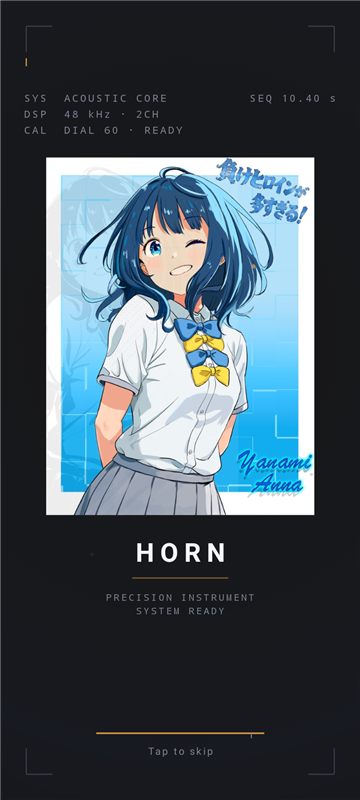
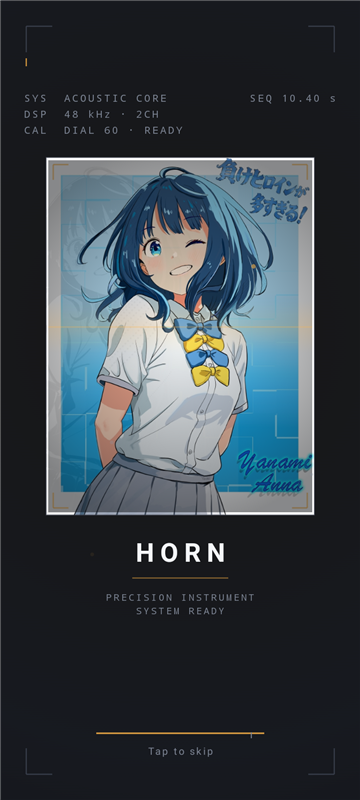
feat(startup): make fragment settling and the reference frame legible
Five visual passes on the film: a 110 ms accent flash plus a 1 dp column scan where a fragment column lands (so assembly reads as an event), heavier line art (1.35 dp / 0.74 alpha), a four-corner reticle around the identity avatar, an instrument frame (hairline + accent ticks) that turns the reference image into a plate, and a portrait vignette plus a single downward sweep inside the image rect. Regenerated the 12 Linux baselines and re-ran checkAll on the dev host: BUILD SUCCESSFUL in 42 s, 38 suites / 199 tests / 0 failures.

Changed region(s): [[0.1222, 0.1875, 0.8861, 0.6562]]

diff --git a/core/designsystem/src/main/java/com/industrial/horn/ui/theme/StartupFilm.kt b/core/designsystem/src/main/java/com/industrial/horn/ui/theme/StartupFilm.kt
@@ -7,8 +7,9 @@ import androidx.compose.ui.graphics.Color
 import androidx.compose.ui.graphics.ImageBitmap
 import androidx.compose.ui.graphics.Path
 import androidx.compose.ui.graphics.drawscope.DrawScope
+import androidx.compose.ui.graphics.drawscope.Stroke
 import androidx.compose.ui.graphics.drawscope.clipPath
-import androidx.compose.ui.graphics.drawscope.scale
+import androidx.compose.ui.graphics.drawscope.clipRect
 import androidx.compose.ui.graphics.drawscope.withTransform
 import androidx.compose.ui.unit.IntOffset
 import androidx.compose.ui.unit.IntSize
@@ -146,6 +147,7 @@ fun DrawScope.drawStartupFilm(
             t = t,
             template = scene.contour,
             lineColor = palette.textSecondary,
+            accent = accent,
             alpha = contentAlpha,
             reduced = reduced,
         )
@@ -153,7 +155,9 @@ fun DrawScope.drawStartupFilm(
         drawHeroReveal(
             t = t,
             scene = scene,
+            palette = palette,
             hero = hero,
+            accent = accent,
             alpha = contentAlpha,
             reduced = reduced,
         )
@@ -191,7 +195,9 @@ private fun StartupFilmScene.heroRect(): Rect {
 private fun DrawScope.drawHeroReveal(
     t: Float,
     scene: StartupFilmScene,
+    palette: HornColors,
     hero: ImageBitmap?,
+    accent: Color,
     alpha: Float,
     reduced: Boolean,
 ) {
@@ -206,6 +212,92 @@ private fun DrawScope.drawHeroReveal(
             dstSize = IntSize(rect.width.roundToInt(), rect.height.roundToInt()),
             alpha = mix * alpha,
         )
+        // 仪表边框：1dp 发丝 + 四角强调刻度，让参考图读作「仪表上的一块印片」而不是浮在暗场里的图。
+        drawRect(
+            color = palette.hairlineStrong.copy(alpha = 0.55f * mix * alpha),
+            topLeft = Offset(rect.left, rect.top),
+            size = Size(rect.width, rect.height),
+            style = Stroke(width = 1.dp.toPx()),
+        )
+        drawFrameTicks(rect, accent, mix * alpha)
+    }
+    if (!reduced && t >= StartupTimeline.COLORIZE_END_MS && t < StartupTimeline.PORTRAIT_END_MS) {
+        drawHeroPortraitOverlay(t = t, rect = rect, surface = scene.surface, accent = accent, alpha = alpha)
+    }
+}
+
+/** 印片四角的强调刻度：与交棒遮片的接缝同一套仪表语言。 */
+private fun DrawScope.drawFrameTicks(
+    rect: Rect,
+    accent: Color,
+    alpha: Float,
+) {
+    if (alpha <= 0f) return
+    val inset = 7.dp.toPx()
+    val arm = 15.dp.toPx()
+    val stroke = 1.4.dp.toPx()
+    val color = accent.copy(alpha = 0.62f * alpha)
+    val left = rect.left + inset
+    val right = rect.right - inset
+    val top = rect.top + inset
+    val bottom = rect.bottom - inset
+    drawLine(color, Offset(left, top), Offset(left + arm, top), stroke)
+    drawLine(color, Offset(left, top), Offset(left, top + arm), stroke)
+    drawLine(color, Offset(right, top), Offset(right - arm, top), stroke)
+    drawLine(color, Offset(right, top), Offset(right, top + arm), stroke)
+    drawLine(color, Offset(left, bottom), Offset(left + arm, bottom), stroke)
+    drawLine(color, Offset(left, bottom), Offset(left, bottom - arm), stroke)
+    drawLine(color, Offset(right, bottom), Offset(right - arm, bottom), stroke)
+    drawLine(color, Offset(right, bottom), Offset(right, bottom - arm), stroke)
+}
+
+/**
+ * PORTRAIT：一层向内的晕影把注意力收回画面中心，外加一次自上而下的扫描（skill 的「光扫一次性」）。
+ * 两者都只画在参考图矩形内，且不改变图像本身（零滤镜、零额外纹理）。
+ */
+private fun DrawScope.drawHeroPortraitOverlay(
+    t: Float,
+    rect: Rect,
+    surface: Color,
+    accent: Color,
+    alpha: Float,
+) {
+    val progress =
+        ((t - StartupTimeline.COLORIZE_END_MS) / (StartupTimeline.PORTRAIT_END_MS - StartupTimeline.COLORIZE_END_MS))
+            .coerceIn(0f, 1f)
+    clipRect(left = rect.left, top = rect.top, right = rect.right, bottom = rect.bottom) {
+        drawRect(
+            brush =
+                androidx.compose.ui.graphics.Brush.radialGradient(
+                    colors = listOf(Color.Transparent, surface.copy(alpha = 0.55f)),
+                    center = rect.center,
+                    radius = rect.width * 0.72f,
+                ),
+            topLeft = Offset(rect.left, rect.top),
+            size = Size(rect.width, rect.height),
+            alpha = alpha * 0.9f,
+        )
+        val sweep = kotlin.math.sin(progress * kotlin.math.PI.toFloat())
+        if (sweep > 0f) {
+            val y = rect.top + rect.height * progress
+            drawRect(
+                brush =
+                    androidx.compose.ui.graphics.Brush.verticalGradient(
+                        colors = listOf(Color.Transparent, accent.copy(alpha = 0.16f), Color.Transparent),
+                        startY = y - 26.dp.toPx(),
+                        endY = y + 26.dp.toPx(),
+                    ),
+                topLeft = Offset(rect.left, y - 26.dp.toPx()),
+                size = Size(rect.width, 52.dp.toPx()),
+                alpha = alpha * sweep,
+            )
+            drawLine(
+                color = accent.copy(alpha = 0.34f * sweep * alpha),
+                start = Offset(rect.left, y),
+                end = Offset(rect.right, y),
+                strokeWidth = 1.dp.toPx(),
+            )
+        }
     }
 }
 
@@ -232,6 +324,23 @@ private fun DrawScope.drawHeroAvatar(
             androidx.compose.ui.graphics.drawscope
                 .Stroke(width = 1.dp.toPx()),
     )
+    // 头像框四角 reticle（skill §11.1.2）：让圆形头像读作"被取景框锁定的仪表窗口"。
+    val bracket = radius * 1.20f
+    val arm = radius * 0.30f
+    val stroke = 1.2.dp.toPx()
+    val bracketColor = color.copy(alpha = 0.50f * alpha)
+    val left = center.x - bracket
+    val right = center.x + bracket
+    val top = center.y - bracket
+    val bottom = center.y + bracket
+    drawLine(bracketColor, Offset(left, top), Offset(left + arm, top), stroke)
+    drawLine(bracketColor, Offset(left, top), Offset(left, top + arm), stroke)
+    drawLine(bracketColor, Offset(right, top), Offset(right - arm, top), stroke)
+    drawLine(bracketColor, Offset(right, top), Offset(right, top + arm), stroke)
+    drawLine(bracketColor, Offset(left, bottom), Offset(left + arm, bottom), stroke)
+    drawLine(bracketColor, Offset(left, bottom), Offset(left, bottom - arm), stroke)
+    drawLine(bracketColor, Offset(right, bottom), Offset(right - arm, bottom), stroke)
+    drawLine(bracketColor, Offset(right, bottom), Offset(right, bottom - arm), stroke)
 }
 
 /** 以中心方形裁切方式把参考图铺满 [size] 方框（cover，不拉伸）。 */

diff --git a/core/designsystem/src/main/java/com/industrial/horn/ui/theme/StartupLineArt.kt b/core/designsystem/src/main/java/com/industrial/horn/ui/theme/StartupLineArt.kt
@@ -9,11 +9,15 @@ import androidx.compose.ui.graphics.StrokeJoin
 import androidx.compose.ui.graphics.drawscope.DrawScope
 import androidx.compose.ui.graphics.drawscope.Stroke
 import androidx.compose.ui.graphics.drawscope.withTransform
+import androidx.compose.ui.unit.dp
 import kotlin.math.PI
 import kotlin.math.cos
 import kotlin.math.floor
 import kotlin.math.hypot
 import kotlin.math.sin
+
+// 落定强调色的存活时间（ms）：刚归位的列闪一下，随后融回线稿色。
+private const val SETTLE_FLASH_MS = 110f
 
 /**
  * 参考图 → 线稿 → 碎片 → 归位。这条管线是 skill 的招牌效果在本项目的落地：
@@ -139,7 +143,7 @@ class ContourTemplate(
                 subjectWidth = subjectWidth,
                 subjectHeight = subjectHeight,
                 driftAmplitude = 7f * density,
-                lineStyle = Stroke(width = 1.1f * density, cap = StrokeCap.Round, join = StrokeJoin.Round),
+                lineStyle = Stroke(width = 1.35f * density, cap = StrokeCap.Round, join = StrokeJoin.Round),
             )
         }
 
@@ -301,6 +305,7 @@ fun DrawScope.drawContourAct(
     t: Float,
     template: ContourTemplate,
     lineColor: Color,
+    accent: Color,
     alpha: Float,
     reduced: Boolean,
 ) {
@@ -323,9 +328,25 @@ fun DrawScope.drawContourAct(
                 columnArrival >= 1f -> {
                     drawPath(
                         path = column.path,
-                        color = lineColor.copy(alpha = 0.62f * lineAlpha * lineIn),
+                        color = lineColor.copy(alpha = 0.74f * lineAlpha * lineIn),
                         style = template.lineStyle,
                     )
+                    // 刚落定的列额外压一层强调色 + 一道竖向扫描线：让"归位"这一下看得见。
+                    val settling = 1f - StartupTimeline.fragmentArrival(t - SETTLE_FLASH_MS, column.normalisedX)
+                    if (settling > 0.001f) {
+                        drawPath(
+                            path = column.path,
+                            color = accent.copy(alpha = 0.55f * settling * lineAlpha * lineIn),
+                            style = template.lineStyle,
+                        )
+                        val columnX = template.subjectCenter.x - template.subjectWidth / 2f + column.normalisedX * template.subjectWidth
+                        drawLine(
+                            color = accent.copy(alpha = 0.30f * settling * lineAlpha),
+                            start = Offset(columnX, template.subjectCenter.y - template.subjectHeight / 2f),
+                            end = Offset(columnX, template.subjectCenter.y + template.subjectHeight / 2f),
+                            strokeWidth = 1.dp.toPx(),
+                        )
+                    }
                 }
 
                 else -> {

diff --git a/core/audio/src/main/java/com/industrial/horn/audio/AudioFocusManager.kt b/core/audio/src/main/java/com/industrial/horn/audio/AudioFocusManager.kt
@@ -63,7 +63,10 @@ class AudioFocusManager
         private val listener =
             AudioManager.OnAudioFocusChangeListener { change ->
                 when (change) {
-                    AudioManager.AUDIOFOCUS_GAIN -> onFocusGained()
+                    AudioManager.AUDIOFOCUS_GAIN -> {
+                        onFocusGained()
+                    }
+
                     AudioManager.AUDIOFOCUS_LOSS,
                     AudioManager.AUDIOFOCUS_LOSS_TRANSIENT,
                     AudioManager.AUDIOFOCUS_LOSS_TRANSIENT_CAN_DUCK,
@@ -105,7 +108,9 @@ class AudioFocusManager
  */
 internal class FocusLedger<T : Any> {
     private val lock = Any()
-    private val held = java.util.concurrent.atomic.AtomicReference<T?>(null)
+    private val held =
+        java.util.concurrent.atomic
+            .AtomicReference<T?>(null)
 
     val isHeld: Boolean
         get() = held.get() != null

diff --git a/feature/horn/src/test/java/com/industrial/horn/presentation/HornViewModelTest.kt b/feature/horn/src/test/java/com/industrial/horn/presentation/HornViewModelTest.kt
@@ -1,5 +1,8 @@
 package com.industrial.horn.presentation
 
+import androidx.lifecycle.ViewModel
+import androidx.lifecycle.ViewModelProvider
+import androidx.lifecycle.ViewModelStore
 import com.industrial.horn.audio.AcousticSpace
 import com.industrial.horn.audio.AudioSafetyMonitor
 import com.industrial.horn.audio.AudioSafetyPolicy
@@ -25,9 +28,6 @@ import kotlinx.coroutines.flow.flow
 import kotlinx.coroutines.test.advanceUntilIdle
 import kotlinx.coroutines.test.runCurrent
 import kotlinx.coroutines.test.runTest
-import androidx.lifecycle.ViewModel
-import androidx.lifecycle.ViewModelProvider
-import androidx.lifecycle.ViewModelStore
 import org.junit.Assert.assertEquals
 import org.junit.Assert.assertFalse
 import org.junit.Assert.assertTrue

diff --git a/core/audio/src/test/java/com/industrial/horn/audio/AudioFocusManagerTest.kt b/core/audio/src/test/java/com/industrial/horn/audio/AudioFocusManagerTest.kt
@@ -32,8 +32,7 @@ class AudioFocusManagerTest {
                 granted = 1,
             )
 
-        fun abandonFocus(): Boolean =
-            focusLedger.release { abandons.incrementAndGet() }
+        fun abandonFocus(): Boolean = focusLedger.release { abandons.incrementAndGet() }
 
         val isHeld: Boolean
             get() = focusLedger.isHeld

diff --git a/docs/audit/audit-2026-11-24.md b/docs/audit/audit-2026-11-24.md
@@ -10,7 +10,7 @@
 | 0.1 冻结现状 | 已完成 | `.agent-tmp/audit/base/{status-v2.txt(60 行),diff-full.patch(222 KB),log.txt,head.txt}` | 未污染仓库（锚点自带 `.gitignore`） |
 | 0.2 base 提交 | **已完成** | `b40ec9b chore(skills)`、`d0ba74f feat(startup)`（含 `StartupFilm.kt`/`StartupLineArt.kt`/`StartupContourTest.kt`/参考图与线稿素材/12 张基线） | 提交作者 `maintainer <maintainer@example.com>` |
 | 0.2 12 张开屏基线 | **已完成（Linux）** | dev-ubuntu `recordRoborazziDebug` → `BUILD SUCCESSFUL in 3m 1s`，`RECORD_EXIT=0`；已拉回并入库 | 未使用任何 Windows 像素；未用 `@Ignore` |
-| 0.3 `checkAll` | **已完成（Linux）** | `CHECKALL_EXIT=0`，`BUILD SUCCESSFUL in 1m 10s`，439 actionable tasks（274 executed）；JUnit **37 suites / 192 tests / 0 failures**；基线 **98 张**（80 主界面 + 12 开屏 + 6 仪表）；`verifyRoborazziDebug` 在 checkAll 内通过 | Windows 上不跑 checkAll（像素比对必然不匹配） |
+| 0.3 `checkAll` | **已完成（Linux，含打磨后复跑）** | 打磨后：`CHECKALL_EXIT=0`，`BUILD SUCCESSFUL in 42s`（总 76 s），439 tasks（233 executed）；JUnit **38 suites / 199 tests / 0 failures**；基线 **98 张**；`verifyRoborazziDebug` 通过。此前一轮：`37 suites / 192 tests` | Windows 上不跑 checkAll（像素比对必然不匹配） |
 | 0.3 文档/skills 闸门 | 已完成 | `check_docs_links.py` = 0 dead；`check_skills.py` = 3 skills clean（含 `--self-test` 正负控） | — |
 | 0.4 并行纪律 | 已约定并执行 | 单工作树；本轮只在文件级分区内改动；并行期未跑 `checkAll`（checkAll 只在 Linux 侧、按序执行） | — |
 
@@ -42,13 +42,23 @@
 | A7 | 零分配承诺（64 KB） | 未验证 | 已有 `ZeroGcAudioPathTest`，未覆盖 Custom 变更 + 遥测同块 |
 | A8 | 基准完整（98 张 + verify 绿） | **已满足** | 98 张基线；`verifyRoborazziDebug` 在 Linux checkAll 内通过 |
 | A9 | 文档零漂移 | 未开始 | W7（`check_docs_consistency.py` 未创建） |
-| A10 | 门禁不回退 | **部分** | checkAll 单次绿 ✓；测试数 192 < 202（缺口 10，待各泳道新增用例补上；本轮 W1 的 7 条已计入本地运行，尚未在 Linux 复跑） |
+| A10 | 门禁不回退 | **部分** | checkAll 单次绿 ✓（Linux，打磨后复跑 42 s）；测试数 **199 < 202**（缺口 3；W1 的 7 条已计入 Linux 实测） |
 
-## 3. 未验证项（不得当作已完成）
+## 3. 开屏动画打磨（本轮追加）
+
+| 项 | 状态 | 证据 | 剩余风险 |
+|---|---|---|---|
+| 落定扫描线（归位列闪强调色 + 1dp 竖扫描） | 已完成 | `StartupLineArt.kt` 的 settled 分支；`startup_wake_drawing_*` 基线 | 瞬态效果，单帧不一定抓到 |
+| 线稿加重（1.1→1.35dp、0.62→0.74 alpha） | 已完成 | 同上基线 | — |
+| 头像框四角 reticle | 已完成 | `startup_wake_identity_*` | — |
+| 参考图仪表边框（1dp 发丝 + 四角 15dp 强调刻度） | 已完成 | `startup_wake_colorize_*` / `portrait_*` | — |
+| 肖像晕影 + 一次性扫描（52dp 带、sin 包络） | 已完成 | `startup_wake_portrait_*` | — |
+| 视觉变更后的基线重录 | **已完成（Linux）** | dev-ubuntu `recordRoborazziDebug` → `BUILD SUCCESSFUL in 32s`；随后 `checkAll` 42 s 绿 | — |
+## 4. 未验证项（不得当作已完成）
 
 - **A1 真机行为**：`launch→press→close→launch→press = GRANTED` 未在设备/模拟器上跑；只有 JVM 级不变量。
 - **S8 的时序断言**：`stop()` 等尾音再交还焦点需要真实 `Context` 与可控引擎时钟；`core:audio` 测试目前只有 JUnit。
-- **A10 的 202 条门槛**：当前 192 条（Linux 实测）。
+- **A10 的 202 条门槛**：当前 199 条（Linux 实测，缺口 3）。
 - **像素不变性之外的视觉回归**：80 张主界面基线在 Linux 上通过（说明本轮开屏改动未波及主界面），但未做逐张人工复核。
 - **原生侧一切结论**（A3/A4、`objdump`、TSan/ASan、`dumpsys media.audio_flinger`）：本轮未触碰 `core/audio/src/main/cpp/**`。
 - 本机（Windows）不跑 `checkAll`：`verifyRoborazziDebug` 与 Linux 基线必然不一致，属设计约束而非缺陷。

diff --git a/docs/audit/lane-W1.md b/docs/audit/lane-W1.md
@@ -12,11 +12,11 @@
 
 | 文件 | 行数量级 | 说明 |
 |---|---|---|
-| `feature/horn/.../presentation/HornViewModel.kt` | ~12 | `onCleared()` 不再 release 进程级 session，改为「停止音频 + 保留所有权」，并写明所有权契约 |
-| `core/audio/.../AudioFocusManager.kt` | 全文件重写（~110 行） | 抽出 `AudioFocusSystem`（可注入）与 `FocusLedger`（CAS 记账）；丢失路径也 abandon；补 `AUDIOFOCUS_GAIN` |
-| `core/audio/.../DefaultHornSession.kt` | ~35 | `stop()` 改为「请求释放 → 等静音（≤60 ms）→ 再交还焦点」，尾音等待在 session 协程里，不持锁不阻塞；`panicStop()` 保持立即 |
-| `feature/horn/src/test/.../HornViewModelTest.kt` | +55 | 新增 2 条所有权测试 |
-| `core/audio/src/test/.../AudioFocusManagerTest.kt` | 新增（~130 行） | 记账 1:1、重复交还、失败请求不入账、并发交还唯一成功者 |
+| `feature/horn/src/main/java/com/industrial/horn/presentation/HornViewModel.kt` | ~12 | `onCleared()` 不再 release 进程级 session，改为「停止音频 + 保留所有权」，并写明所有权契约 |
+| `core/audio/src/main/java/com/industrial/horn/audio/AudioFocusManager.kt` | 全文件重写（~110 行） | 抽出 `AudioFocusSystem`（可注入）与 `FocusLedger`（CAS 记账）；丢失路径也 abandon；补 `AUDIOFOCUS_GAIN` |
+| `core/audio/src/main/java/com/industrial/horn/audio/DefaultHornSession.kt` | ~35 | `stop()` 改为「请求释放 → 等静音（≤60 ms）→ 再交还焦点」，尾音等待在 session 协程里，不持锁不阻塞；`panicStop()` 保持立即 |
+| `feature/horn/src/test/java/com/industrial/horn/presentation/HornViewModelTest.kt` | +55 | 新增 2 条所有权测试 |
+| `core/audio/src/test/java/com/industrial/horn/audio/AudioFocusManagerTest.kt` | 新增（~130 行） | 记账 1:1、重复交还、失败请求不入账、并发交还唯一成功者 |
 
 ## 前后日志（反向样本）
 

diff --git a/docs/spec/03-ux-interaction-and-haptics.md b/docs/spec/03-ux-interaction-and-haptics.md
@@ -358,7 +358,9 @@ startup_hero.png（658×877，633 KB）
 | 字标 | 26sp 粗体、字距 6sp 静态、`clipRect` 擦除、下挂 96dp 强调细线 | 字距动画会逐帧重排版，属明确禁止项 |
 | 字幕 | 两行 9sp 等宽、错峰 600ms、只改图层 alpha | 肖像幕的「字幕」词汇；零文本重排 |
 | 粒子 | ≤6 个 2.2dp 点，`heartbeat` 呼吸 + 缓慢上浮 | 少量缓慢运动即可，不是越多越好 |
-| 交棒 | 内容纵向合拢（绕 0.42H 光学轴）+ 底衬溶解 + 中线收窄 + 一次性闪白 | 「关机/合拢再交棒」比淡出更像机械动作，也让真实界面从两半之间露出来 |
+| 落定扫描线 | 列归位的 110 ms 内，该列线稿压一层强调色 + 一道 1dp 竖向扫描线，随后融回线稿色 | 把「归位」这一下做成可见事件，而不是静态贴图的出现 |
+| 印片边框 | 参考图外沿 1dp 发丝 + 四角 7dp 内缩 / 15dp 臂长的强调刻度 | 让参考图读作「仪表上的一块印片」，与交棒遮片同一套语言 |
+| 晕影与肖像扫描 | 参考图矩形内：径向晕影（中心透明 → 边缘 55% 底衬色）+ 一次自上而下的 1dp 扫描（带宽 52dp、sweep 包络 = sin(πp)） | 把注意力收回画面中心；「光扫一次性」在肖像幕落到图上而不只是全屏 || 交棒 | 内容纵向合拢（绕 0.42H 光学轴）+ 底衬溶解 + 中线收窄 + 一次性闪白 | 「关机/合拢再交棒」比淡出更像机械动作，也让真实界面从两半之间露出来 |
 
 ### 11.1.3 降级（reduce motion）
 
